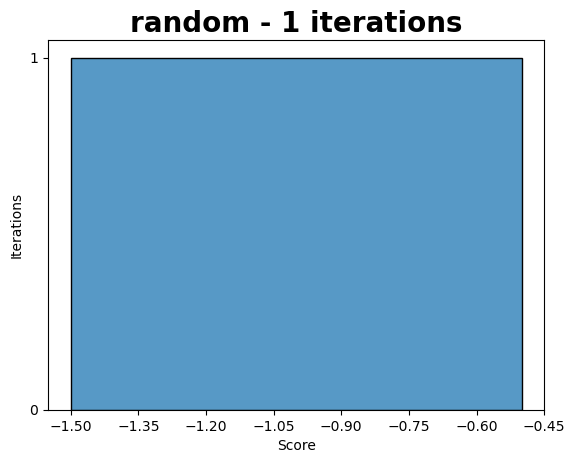
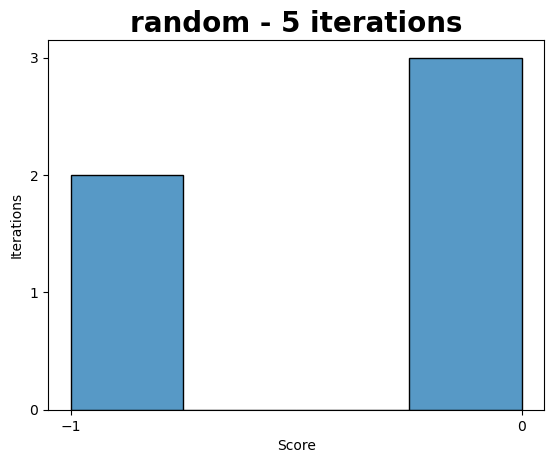
calculate_bond function update

diff --git a/code/classes/grid.py b/code/classes/grid.py
@@ -42,10 +42,11 @@ class Grid():
                 for amino in self.amino_acids.values():
 
                     # Check if there is a next amino or previous amino
-                    if amino != next_amino and amino != prev_amino and self.check_location(current_amino._location, amino._location):
-                        self.score += self.calculate_bond_score(current_amino, amino)
+                    if prev_amino and next_amino:
+                        if amino.amino_id != next_amino.amino_id and amino.amino_id != prev_amino.amino_id and self.check_location(current_amino._location, amino._location):
+                            self.score += self.calculate_bond_score(current_amino, amino)
 
-        self.score = round(self.score / 2.0)
+        self.score = self.score
         return self.score
 
     def check_location(self, amino1: tuple, amino2: tuple) -> bool:
@@ -62,8 +63,10 @@ class Grid():
             return -1
         elif amino1.text == "C" and amino2.text == "C":
             return -5
+
         else:
             return 0
+
         
     def is_hydrogen_bond(self, amino1, amino2) -> bool:
         """ Checks if there is a hydrogen bond between two given amino acids """

diff --git a/main.py b/main.py
@@ -86,4 +86,4 @@ if __name__ == "__main__":
     algorithm = argv[2]
 
     # Run experiment for specified algorithm
-    run(protein_file, iterations=1, algorithm=algorithm, show_vis=True)
+    run(protein_file, iterations=5, algorithm=algorithm, show_vis=True)
